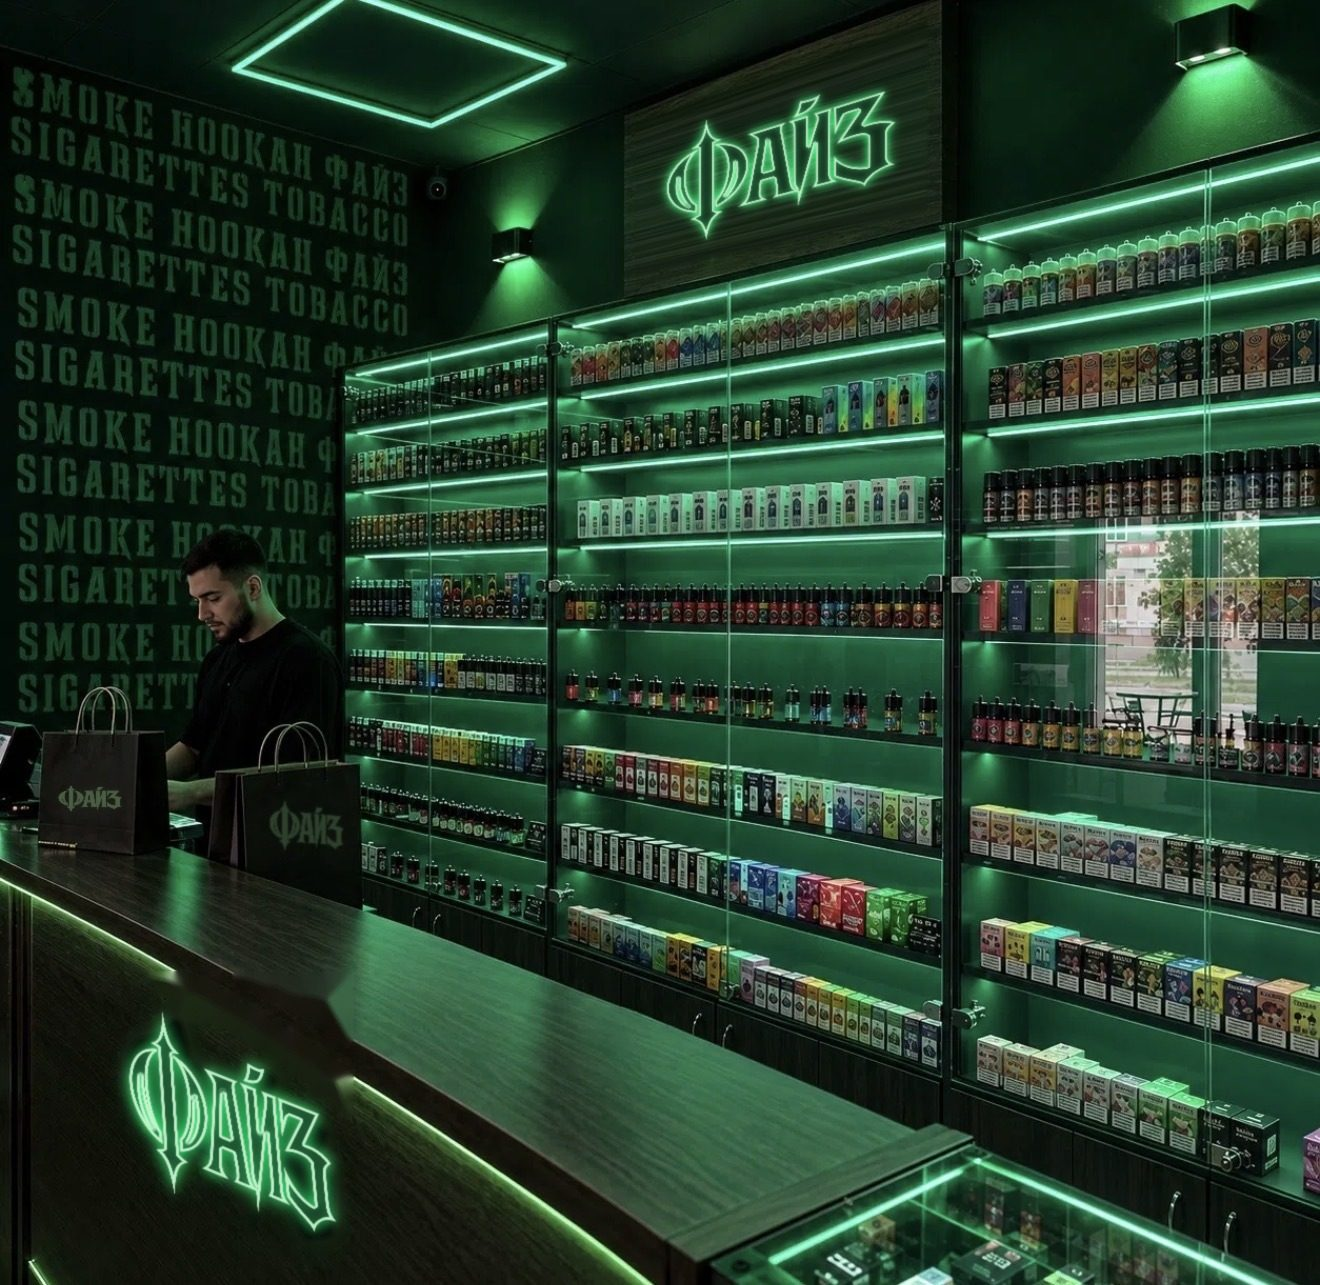
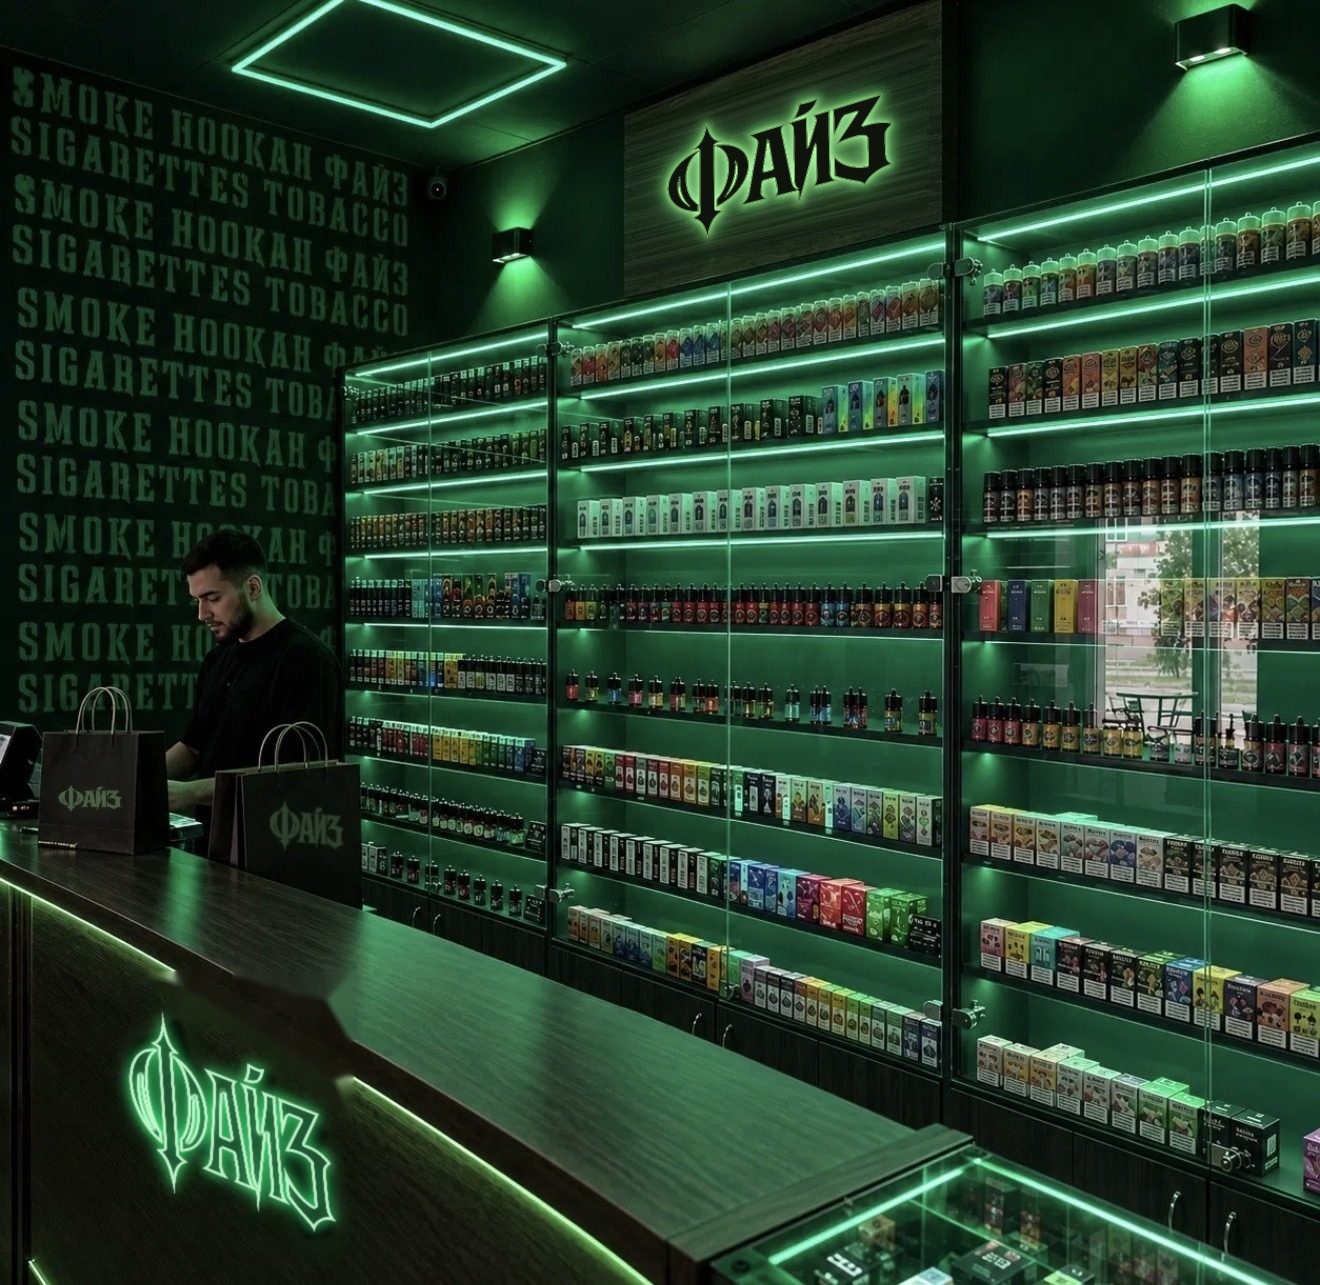
Вывеска на всех фото: объёмные тёмные буквы с зелёной контурной подсветкой, точно по перспективе; убраны искажённые логотипы
Claude-Session: https://claude.ai/code/session_01BMbPjmkERVyLXGwtCTJEdw

Changed region(s): [[0.497, 0.0623, 0.6833, 0.1868]]

diff --git a/index.html b/index.html
@@ -382,10 +382,10 @@
     <h2 class="h" style="margin-top:clamp(110px,12vw,170px)">Фотостиль</h2>
     <p style="margin-top:18px">Снимки бренда — это сам магазин: тёплый свет, изумрудная подсветка, порядок на полках и золотой знак в кадре.</p>
     <div class="photos rv" style="margin-top:40px">
-      <figure><img src="img/facade.jpg?v=6" alt="Фасад магазина ФАЙЗ вечером" loading="lazy"><figcaption>Фасад · вечер</figcaption></figure>
-      <figure><img src="img/counter.jpg" alt="Стойка с подсвеченным логотипом" loading="lazy"><figcaption>Знак в кадре</figcaption></figure>
-      <figure><img src="img/interior.jpg" alt="Зал со стеклянными стеллажами" loading="lazy"><figcaption>Симметрия</figcaption></figure>
-      <figure><img src="img/lifestyle.jpg" alt="Зона отдыха у витрины" loading="lazy"><figcaption>Атмосфера</figcaption></figure>
+      <figure><img src="img/facade.jpg?v=7" alt="Фасад магазина ФАЙЗ вечером" loading="lazy"><figcaption>Фасад · вечер</figcaption></figure>
+      <figure><img src="img/counter.jpg?v=7" alt="Стойка с подсвеченным логотипом" loading="lazy"><figcaption>Знак в кадре</figcaption></figure>
+      <figure><img src="img/interior.jpg?v=7" alt="Зал со стеклянными стеллажами" loading="lazy"><figcaption>Симметрия</figcaption></figure>
+      <figure><img src="img/lifestyle.jpg?v=7" alt="Зона отдыха у витрины" loading="lazy"><figcaption>Атмосфера</figcaption></figure>
       <figure><img src="img/consult.jpg" alt="Консультация у витрины" loading="lazy"><figcaption>Сервис</figcaption></figure>
     </div>
     <div class="grid2" style="margin-top:40px;gap:clamp(24px,4vw,60px)">
@@ -469,7 +469,7 @@
     <p>Аватар — знак «Ф» на изумруде. Публикации рассказывают о магазине, сервисе и атмосфере, всегда с отметкой «18+».</p>
     <div class="digi">
       <figure class="rv"><div class="ava"><svg viewBox="44 44 344.5 391.25"><use href="#pF"/></svg></div><figcaption>Аватар</figcaption></figure>
-      <figure class="post rv"><div class="frame"><img src="img/facade.jpg?v=6" alt="" loading="lazy"><span class="badge18">18+</span><div class="ov"><svg viewBox="0 0 819.75 391.25"><use href="#wm"/></svg><span>Мы открылись. Заходите знакомиться.</span></div></div><figcaption>Публикация 1 : 1</figcaption></figure>
+      <figure class="post rv"><div class="frame"><img src="img/facade.jpg?v=7" alt="" loading="lazy"><span class="badge18">18+</span><div class="ov"><svg viewBox="0 0 819.75 391.25"><use href="#wm"/></svg><span>Мы открылись. Заходите знакомиться.</span></div></div><figcaption>Публикация 1 : 1</figcaption></figure>
       <figure class="rv"><div class="story9"><span class="bar"></span><span class="badge18">18+</span><svg viewBox="0 0 819.75 391.25"><use href="#wm"/></svg><div><div class="h">Ждём вас</div><div class="t">Ежедневно<br>10:00–22:00</div></div></div><figcaption>Сторис 9 : 16</figcaption></figure>
     </div>
   </div>
@@ -559,8 +559,8 @@
 <script src="https://cdnjs.cloudflare.com/ajax/libs/three.js/r128/three.min.js" integrity="sha384-CI3ELBVUz9XQO+97x6nwMDPosPR5XvsxW2ua7N1Xeygeh1IxtgqtCkGfQY9WWdHu" crossorigin="anonymous" referrerpolicy="no-referrer"></script>
 <script src="https://cdn.jsdelivr.net/npm/three@0.128.0/examples/js/environments/RoomEnvironment.js" integrity="sha384-UpJYDNQ/8wDmBlzh4lZ9VMbunag9yRAOGFiBWYVaf6/FCnrwc9qlto25EZVLhpph" crossorigin="anonymous" referrerpolicy="no-referrer"></script>
 <script src="contacts.js?v=1"></script>
-<script src="kit.js?v=4"></script>
-<script src="app.js?v=8"></script>
+<script src="kit.js?v=5"></script>
+<script src="app.js?v=9"></script>
 
 </body>
 </html>

diff --git a/invest.html b/invest.html
@@ -54,7 +54,7 @@
 </nav>
 
 <header id="ihero">
-  <div class="ph" aria-hidden="true"><img src="img/facade.jpg?v=6" alt=""></div>
+  <div class="ph" aria-hidden="true"><img src="img/facade.jpg?v=7" alt=""></div>
   <div class="wrap">
     <div class="eyebrow">ФАЙЗ · инвесторам и партнёрам</div>
     <h1 class="big-title" aria-label="Растите вместе с ФАЙЗ"><span class="ln"><span>Растите</span></span><span class="ln"><span>вместе</span></span><span class="ln"><span>с <span class="gold-text">ФАЙЗ</span></span></span></h1>
@@ -77,11 +77,11 @@
 
     <div class="sub" id="format">Формат магазина</div>
     <div class="ivgal">
-      <figure class="rv big"><img src="img/facade.jpg?v=6" alt="Фасад магазина ФАЙЗ" loading="lazy"><figcaption><b>Фасад</b>Неоновая вывеска и брендированные витрины — точку видно с улицы.</figcaption></figure>
-      <figure class="rv"><img src="img/interior.jpg?v=5" alt="Торговый зал" loading="lazy"><figcaption><b>Зал</b>Стеклянные стеллажи с подсветкой, весь ассортимент на виду.</figcaption></figure>
-      <figure class="rv"><img src="img/counter.jpg?v=5" alt="Стойка с логотипом" loading="lazy"><figcaption><b>Стойка</b>Брендированная касса и фирменная упаковка.</figcaption></figure>
+      <figure class="rv big"><img src="img/facade.jpg?v=7" alt="Фасад магазина ФАЙЗ" loading="lazy"><figcaption><b>Фасад</b>Объёмная вывеска с подсветкой и брендированные витрины — точку видно с улицы.</figcaption></figure>
+      <figure class="rv"><img src="img/interior.jpg?v=7" alt="Торговый зал" loading="lazy"><figcaption><b>Зал</b>Стеклянные стеллажи с подсветкой, весь ассортимент на виду.</figcaption></figure>
+      <figure class="rv"><img src="img/counter.jpg?v=7" alt="Стойка с логотипом" loading="lazy"><figcaption><b>Стойка</b>Брендированная касса и фирменная упаковка.</figcaption></figure>
       <figure class="rv"><img src="img/consult.jpg?v=5" alt="Консультация у витрины" loading="lazy"><figcaption><b>Сервис</b>Консультант помогает выбрать — причина вернуться.</figcaption></figure>
-      <figure class="rv"><img src="img/lifestyle.jpg?v=5" alt="Зона отдыха" loading="lazy"><figcaption><b>Атмосфера</b>Зона отдыха у витрины: покупатель не спешит уйти.</figcaption></figure>
+      <figure class="rv"><img src="img/lifestyle.jpg?v=7" alt="Зона отдыха" loading="lazy"><figcaption><b>Атмосфера</b>Зона отдыха у витрины: покупатель не спешит уйти.</figcaption></figure>
     </div>
     <p style="margin-top:18px"><a class="pill" href="index.html#store" style="display:inline-block;text-decoration:none">Пройти экскурсию по магазину →</a></p>
 
@@ -164,7 +164,7 @@
 <script src="https://cdnjs.cloudflare.com/ajax/libs/gsap/3.12.5/ScrollTrigger.min.js" integrity="sha384-Z3REaz79l2IaAZqJsSABtTbhjgOUYyV3p90XNnAPCSHg3EMTz1fouunq9WZRtj3d" crossorigin="anonymous" referrerpolicy="no-referrer"></script>
 <script src="https://cdn.jsdelivr.net/npm/lenis@1.1.13/dist/lenis.min.js" integrity="sha384-B2WBjDzEjJpYvhmi2UyEn7rektqkf5suS6sNoyyrf0EBAwBHdkiXxIlU0V5Ru2ed" crossorigin="anonymous" referrerpolicy="no-referrer"></script>
 <script src="contacts.js?v=1"></script>
-<script src="kit.js?v=4"></script>
+<script src="kit.js?v=5"></script>
 <script src="invest.js?v=1"></script>
 
 </body>

diff --git a/app.js b/app.js
@@ -428,14 +428,14 @@ sync();
 (()=>{
 const app=document.getElementById('tour'); if(!app) return;
 const S=[
-  {id:'facade',name:'Фасад',zone:'Улица',img:'img/facade.jpg?v=6',f:[.46,.6],
-   text:'Неоновая вывеска, панорамные витрины и узор из фирменных завитков. Дверь подсвечена — заходите.',
+  {id:'facade',name:'Фасад',zone:'Улица',img:'img/facade.jpg?v=7',f:[.46,.6],
+   text:'Вывеска с контурной подсветкой, панорамные витрины и узор из фирменных завитков. Дверь подсвечена — заходите.',
    door:{x:37.4,y:39.5,w:17.3,h:54.5},spots:[]},
-  {id:'main',name:'Главный зал',zone:'Зал',img:'img/interior.jpg?v=5',f:[.5,.5],
+  {id:'main',name:'Главный зал',zone:'Зал',img:'img/interior.jpg?v=7',f:[.5,.5],
    text:'Стеклянные стеллажи с подсветкой каждой полки. Весь ассортимент стоит на виду.',
    spots:[{x:35,y:60,to:'counter',label:'Стойка'},{x:80,y:40,to:'shelves',label:'Стеллажи'},
           {x:23,y:11,info:'Над стеллажами — перечень разделов магазина, чтобы сразу найти нужное.'}]},
-  {id:'counter',name:'Стойка',zone:'Касса',img:'img/counter.jpg?v=5',f:[.5,.38],
+  {id:'counter',name:'Стойка',zone:'Касса',img:'img/counter.jpg?v=7',f:[.5,.38],
    text:'Брендированная стойка с подсвеченным логотипом. Покупки упаковывают в фирменные пакеты ФАЙЗ.',
    spots:[{x:58,y:13,info:'Логотип на панели с контурной подсветкой.'},
           {x:12,y:30,info:'Стена с крупной типографикой в фирменном зелёном.'},
@@ -447,7 +447,7 @@ const S=[
   {id:'consult',name:'Консультация',zone:'Сервис',img:'img/consult.jpg?v=5',f:[.5,.45],
    text:'Консультант поможет подобрать нужное и объяснит разницу между линейками.',
    spots:[{x:52,y:41,info:'Подбор прямо у витрины: консультант показывает линейки и объясняет разницу.'},{x:84,y:30,to:'lifestyle',label:'Зона отдыха'}]},
-  {id:'lifestyle',name:'Зона отдыха',zone:'Отдых',img:'img/lifestyle.jpg?v=5',f:[.5,.55],
+  {id:'lifestyle',name:'Зона отдыха',zone:'Отдых',img:'img/lifestyle.jpg?v=7',f:[.5,.55],
    text:'Кресло, столик и вид на улицу через витрину с логотипом. Место, где можно не спешить.',
    spots:[{x:55,y:66,info:'Мягкое кресло и столик — можно присесть и спокойно рассмотреть покупку.',left:true},{x:86,y:42,to:'main',label:'Обратно в зал',left:true}]}
 ];

diff --git a/kit.js b/kit.js
@@ -135,7 +135,7 @@ if(tp){
    ['digital','Пост · информация','1080 × 1080 px','Сервисные новости: график, адрес, вакансии. Крем и олива, без фото продукции.',svg('0 0 300 300',
      `<rect width="300" height="300" fill="${CR}"/>${b18(246,26,OL,.9)}${t(30,58,10,'ГРАФИК В ПРАЗДНИКИ',{c:GDK,ls:3})}${[['31.12','10:00–18:00'],['01.01','выходной'],['02.01','12:00–22:00']].map(([d,h],i)=>`${t(30,106+i*40,24,d,{c:OL,w:800})}${t(270,106+i*40,17,h,{c:OL,a:'end',f:CG,it:1})}<path d="M30 ${118+i*40}H270" stroke="${OL}" opacity=".15"/>`).join('')}${wm(30,238,96,OL)}`)],
    ['digital','Пост · фото интерьера','1080 × 1080 px','Интерьер или фасад и изумрудная плашка снизу с логотипом.',svg('0 0 300 300',
-     `<image href="img/interior.jpg" width="300" height="300" preserveAspectRatio="xMidYMid slice"/><rect y="212" width="300" height="88" fill="${INK}" opacity=".88"/>${wm(20,232,92,GOLD)}${t(280,254,14,'Заходите знакомиться',{f:CG,it:1,a:'end'})}${t(280,274,8,'АДРЕС МАГАЗИНА',{c:GD,a:'end',ls:2})}${b18(254,16,CR,.9)}`)],
+     `<image href="img/interior.jpg?v=7" width="300" height="300" preserveAspectRatio="xMidYMid slice"/><rect y="212" width="300" height="88" fill="${INK}" opacity=".88"/>${wm(20,232,92,GOLD)}${t(280,254,14,'Заходите знакомиться',{f:CG,it:1,a:'end'})}${t(280,274,8,'АДРЕС МАГАЗИНА',{c:GD,a:'end',ls:2})}${b18(254,16,CR,.9)}`)],
    ['digital','Слайд презентации','16 : 9 · 1920 × 1080','Тёмный изумруд, заголовок капсом, печать справа. Номер слайда — внизу справа.',svg('0 0 400 225',
      `<rect width="400" height="225" fill="${INK}"/><circle cx="310" cy="112" r="110" fill="#123726" opacity=".6"/>${t(28,40,7,'ФАЙЗ · ПРЕЗЕНТАЦИЯ ДЛЯ ПАРТНЁРОВ',{c:GD,ls:3})}${t(28,98,30,'СТРАТЕГИЯ',{w:800,ls:1})}${t(28,130,30,'РОСТА СЕТИ',{w:800,ls:1})}<path d="M28 146H88" stroke="${GD}" stroke-width="2"/>${t(28,168,10,'Раздел · дата',{o:.7})}<circle cx="310" cy="112" r="70" fill="none" stroke="${GD}" opacity=".6"/><circle cx="310" cy="112" r="56" fill="none" stroke="${GD}" opacity=".3" stroke-dasharray="2 4"/>${mk(298,88,48,GOLD)}${wm(28,196,40,CR,.6)}${t(372,212,9,'01',{c:GD,a:'end'})}`)],
    ['digital','Подпись в письме','600 × 180 px · HTML','Знак, золотая вертикаль, имя и контакты. Без цитат и баннеров.',svg('0 0 400 120',
